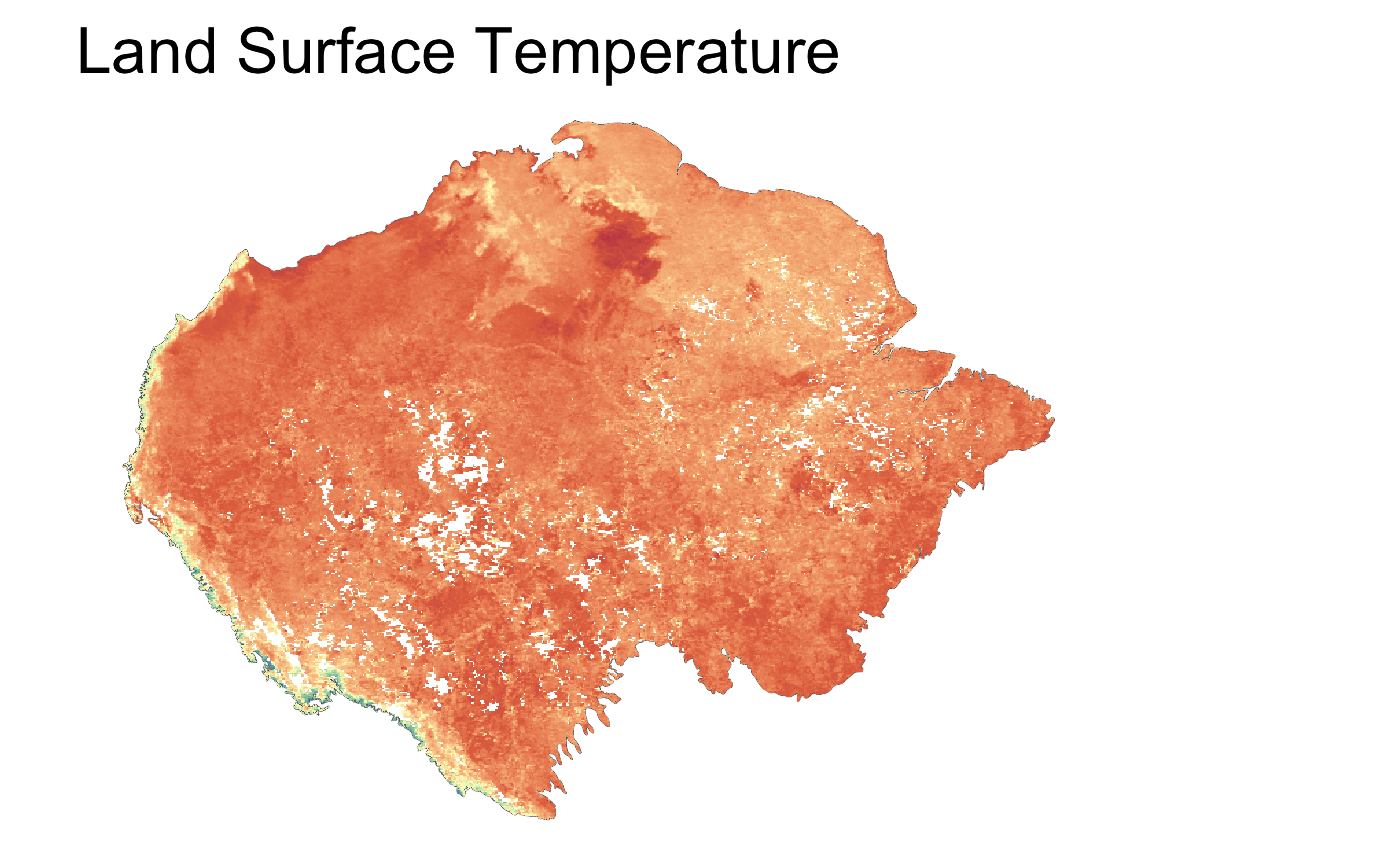
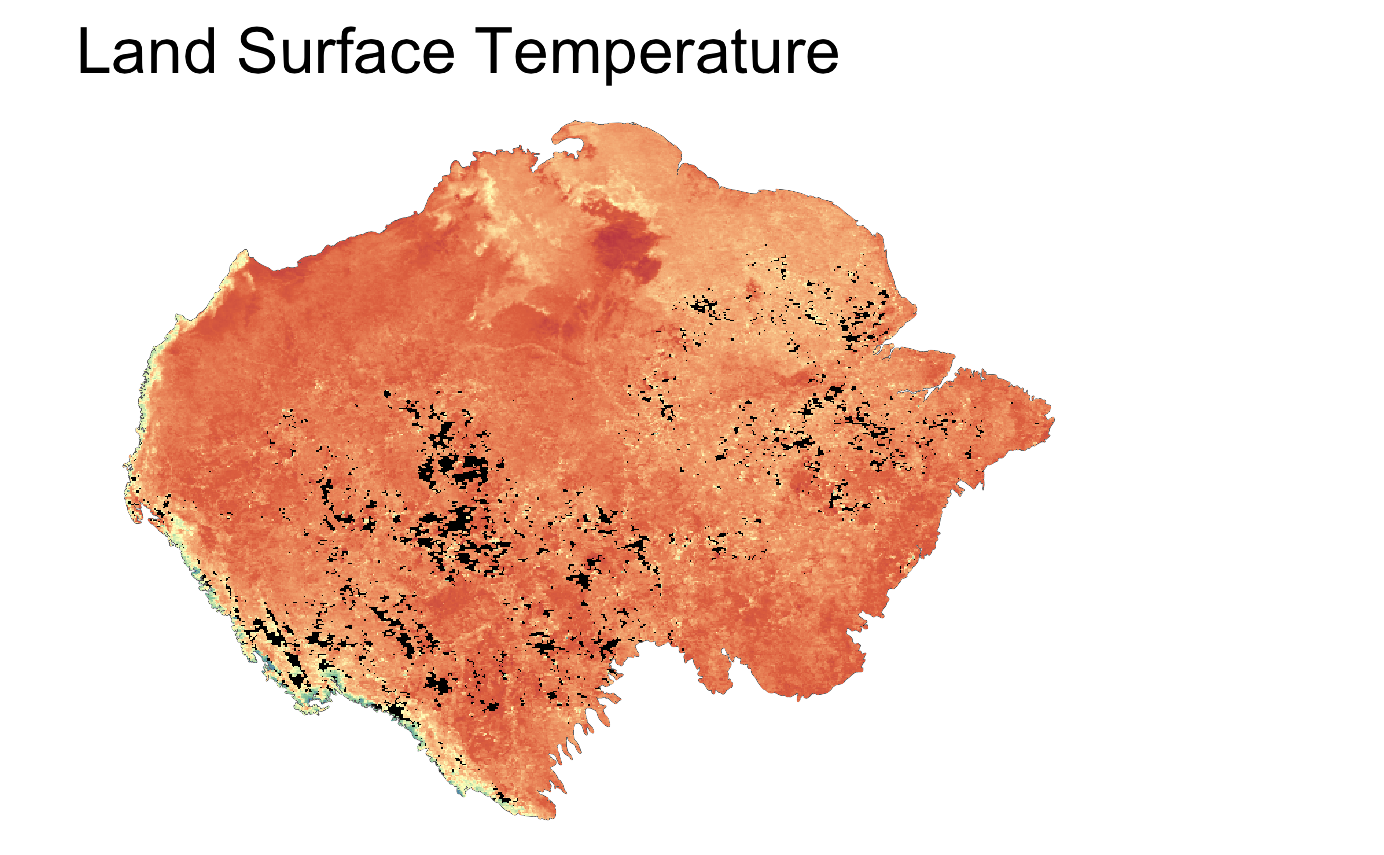
update

diff --git a/2_data_preparation/README.md b/2_data_preparation/README.md
@@ -13,6 +13,10 @@ Our dataset features a spatial resolution of 500 meters, resulting in an extensi
   <img src="./img/Img1.png"  width="100%" />
 </p>
 
+<p align="center">
+  <img src="./img/Img2.png"  width="100%" />
+</p>
+
 This approach resulted in a dataset containing approximately 550 million observations, covering a substantial portion of the Amazon rainforest. To facilitate further analysis and modeling, we normalized the data and divided it into 11 zones, each with roughly 50 million observations. The zone allocation and data distribution are visualized in Figure 7.
 
 [Insert Figure 7: Visualization of Data Zones and Distribution]
